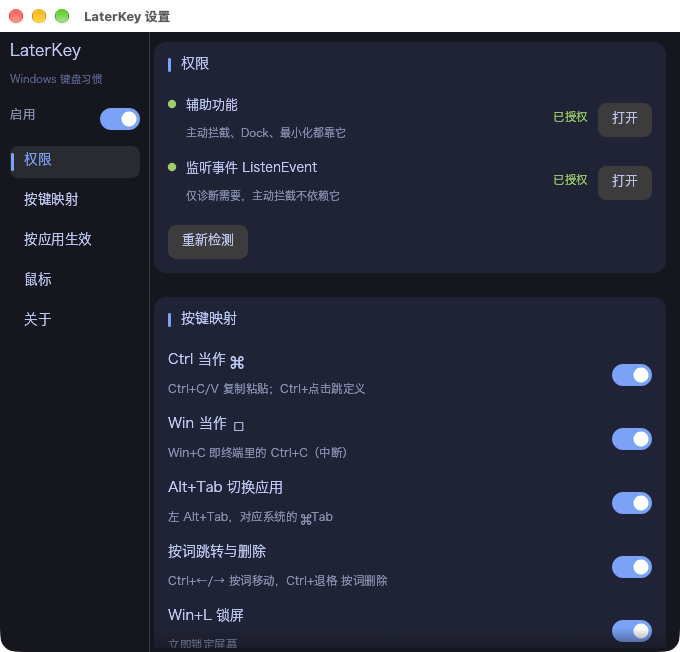
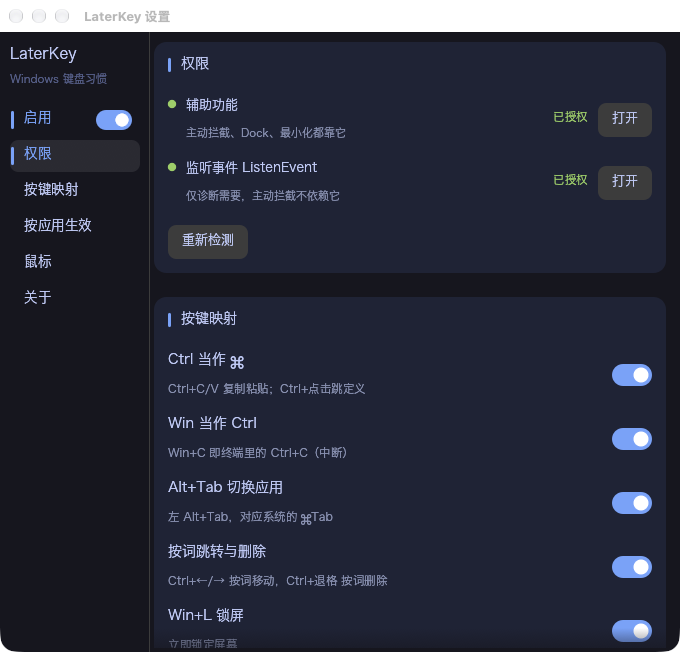
fix: 左栏节奏统一——启用行与导航项同高同字号整行可点；面板 ⌃ 改文字（苹方缺 U+2303）

diff --git a/crates/laterkey-app/src/settings.rs b/crates/laterkey-app/src/settings.rs
@@ -160,19 +160,70 @@ fn switch(ui: &mut egui::Ui, on: &mut bool) -> egui::Response {
     response.widget_info(|| {
         egui::WidgetInfo::selected(egui::WidgetType::Checkbox, ui.is_enabled(), *on, "")
     });
-    let t = ui.ctx().animate_bool(response.id, *on);
     if ui.is_rect_visible(rect) {
-        let radius = rect.height() / 2.0;
-        let mut bg = SWITCH_OFF.lerp_to_gamma(ACCENT, t);
-        if response.hovered() {
-            bg = bg.lerp_to_gamma(Color32::WHITE, 0.08);
-        }
-        ui.painter().rect_filled(rect, radius, bg);
-        let x = rect.left() + radius + (rect.width() - 2.0 * radius) * t;
-        ui.painter()
-            .circle_filled(egui::pos2(x, rect.center().y), radius - 3.5, Color32::WHITE);
+        draw_switch(ui, response.id, rect, *on, response.hovered());
     }
     response
+}
+
+/// 在给定矩形上画开关（按下状态动画由调用方的 id 驱动）。行内嵌开关与
+/// 独立开关共用这一套绘制，保证圆角/滑块比例在任何尺寸下都一致。
+fn draw_switch(ui: &egui::Ui, id: egui::Id, rect: egui::Rect, on: bool, hovered: bool) {
+    let t = ui.ctx().animate_bool(id, on);
+    let radius = rect.height() / 2.0;
+    let mut bg = SWITCH_OFF.lerp_to_gamma(ACCENT, t);
+    if hovered {
+        bg = bg.lerp_to_gamma(Color32::WHITE, 0.08);
+    }
+    ui.painter().rect_filled(rect, radius, bg);
+    let x = rect.left() + radius + (rect.width() - 2.0 * radius) * t;
+    ui.painter()
+        .circle_filled(egui::pos2(x, rect.center().y), radius - 3.5, Color32::WHITE);
+}
+
+/// 左栏「启用」行：与导航项同高（32px）同字号（13.5），整行可点，右侧小号
+/// 开关。做成与导航一致的节奏——原先「启用」12.5pt 挤在 22px 高的开关旁，
+/// 与 16pt 标题、32px 导航行放一起高矮不一。
+fn master_row(ui: &mut egui::Ui, on: &mut bool) -> egui::Response {
+    let (rect, mut resp) =
+        ui.allocate_exact_size(Vec2::new(ui.available_width(), 32.0), egui::Sense::click());
+    if resp.hovered() && !*on {
+        ui.painter().rect_filled(
+            rect,
+            egui::CornerRadius::same(8),
+            Color32::from_rgb(0x28, 0x2e, 0x45),
+        );
+    }
+    let fg = if *on { ACCENT } else { TEXT };
+    if *on {
+        // 开着时同样给品牌色指示条，与选中导航项呼应：「启用」也是一项状态
+        ui.painter().rect_filled(
+            egui::Rect::from_center_size(
+                egui::pos2(rect.left() + 2.0, rect.center().y),
+                Vec2::new(3.0, rect.height() * 0.55),
+            ),
+            egui::CornerRadius::same(2),
+            ACCENT,
+        );
+    }
+    ui.painter().text(
+        egui::pos2(rect.left() + 14.0, rect.center().y),
+        Align2::LEFT_CENTER,
+        "启用",
+        FontId::proportional(13.5),
+        fg,
+    );
+    let sw = Vec2::new(36.0, 20.0);
+    let sw_rect = egui::Rect::from_center_size(
+        egui::pos2(rect.right() - 8.0 - sw.x / 2.0, rect.center().y),
+        sw,
+    );
+    draw_switch(ui, resp.id.with("sw"), sw_rect, *on, resp.hovered());
+    if resp.clicked() {
+        *on = !*on;
+        resp.mark_changed();
+    }
+    resp
 }
 
 /// 分区卡片：标题左侧一条强调色小竖条 + 圆角面板。扁平风：无描边，
@@ -328,20 +379,16 @@ impl eframe::App for SettingsApp {
                     .inner_margin(egui::Margin::same(10)),
             )
             .show(ui, |ui| {
-                ui.label(RichText::new("LaterKey").size(16.0).color(TEXT).strong());
-                ui.label(RichText::new("Windows 键盘习惯").size(10.5).color(MUTED));
+                ui.spacing_mut().item_spacing.y = 4.0;
+                ui.add_space(4.0);
+                ui.label(RichText::new("LaterKey").size(15.0).color(TEXT).strong());
+                ui.label(RichText::new("Windows 键盘习惯").size(11.0).color(MUTED));
                 ui.add_space(10.0);
-                ui.horizontal(|ui| {
-                    ui.label(RichText::new("启用").size(12.5).color(DESC));
-                    ui.with_layout(egui::Layout::right_to_left(egui::Align::Center), |ui| {
-                        let mut master = toggles.master;
-                        if switch(ui, &mut master).changed() {
-                            toggles.master = master;
-                            changed = true;
-                        }
-                    });
-                });
-                ui.add_space(8.0);
+                let mut master = toggles.master;
+                if master_row(ui, &mut master).changed() {
+                    toggles.master = master;
+                    changed = true;
+                }
                 for tab in Tab::ALL {
                     if nav_item(ui, active_tab == tab, tab.label()).clicked() {
                         jump = Some(tab);
@@ -468,7 +515,7 @@ fn keys_section(ui: &mut egui::Ui, t: &mut Toggles, changed: &mut bool) {
             );
             *changed |= row(
                 ui,
-                "Win 当作 ⌃",
+                "Win 当作 Ctrl",
                 "Win+C 即终端里的 Ctrl+C（中断）",
                 &mut t.cmd_as_ctrl,
             );
